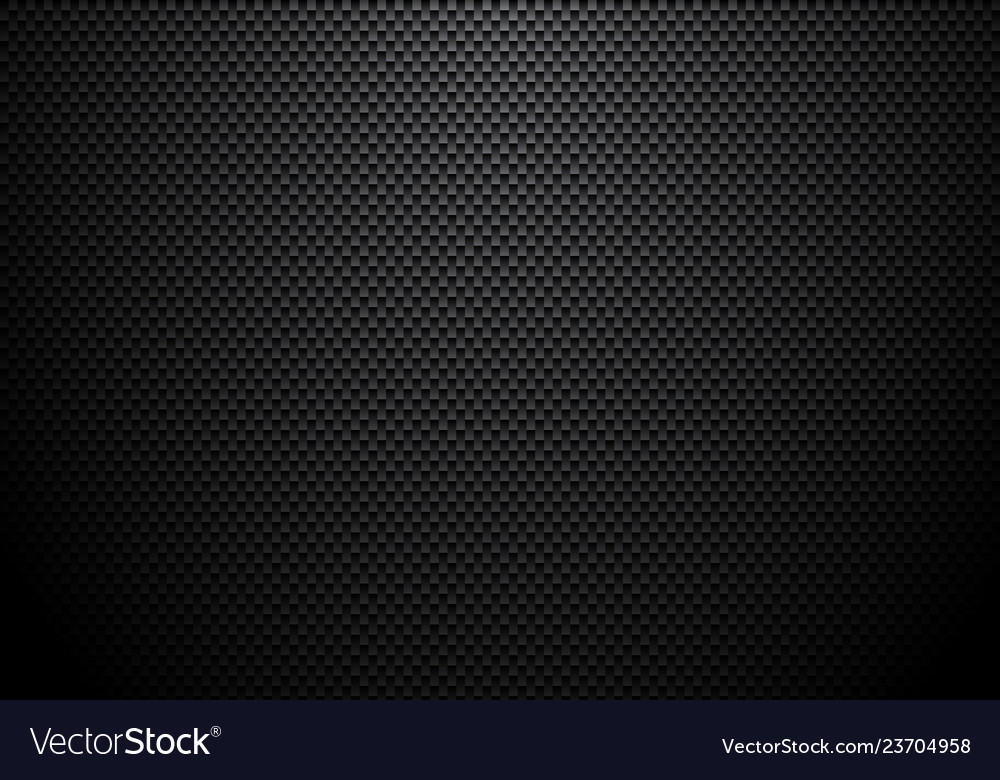
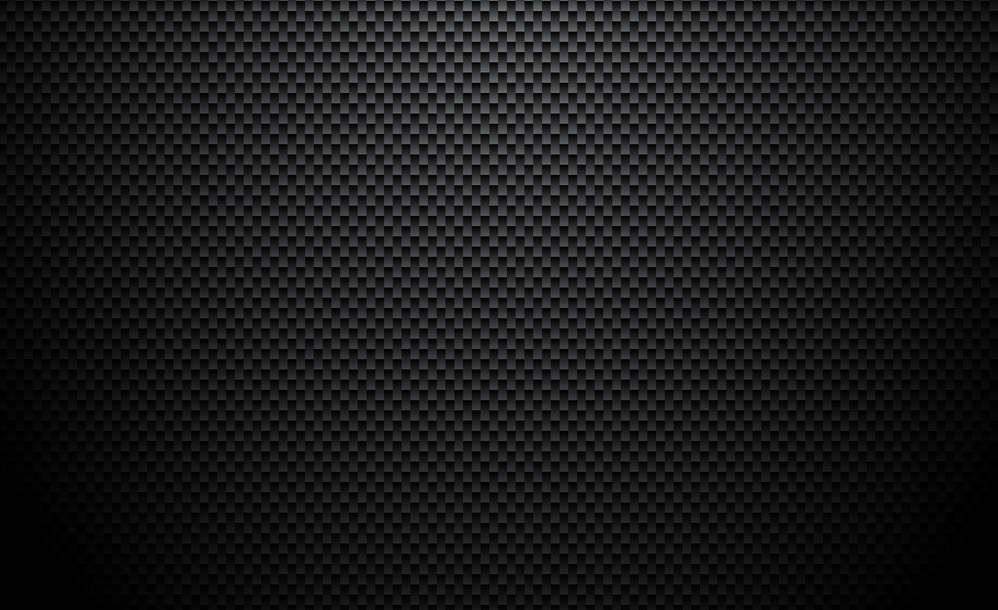
optimised for laptop screen + background image add

Changed region(s): [[0.0621, 0.0, 0.9629, 0.8098], [0.0, 0.841, 1.0, 1.0]]

diff --git a/bikes.css b/bikes.css
@@ -8,7 +8,6 @@
     src: url(styles/fonts/LAKESHOR-webfont.svg);
     src: url(styles/fonts/LAKESHOR-webfont.woff);
 }
-
 html{
     height: 100%;
 }
@@ -18,6 +17,10 @@ body{
     display: flex;
     flex-direction: column;
     margin: 0;
+    background-image: url(images/bike_Images/carbon.jpg);
+    background-repeat: no-repeat;
+    background-size: cover;
+
 }
 .logo{
     display: block;
@@ -68,7 +71,6 @@ h2{
     margin-top: 2vh;
     border-radius: 10%;
     overflow-y: hidden;
-    
 }
 .thumbnails-anchor{
     text-decoration: none;
@@ -76,7 +78,6 @@ h2{
 .thumbnails-image{
     width: 25vw;
     height: 15vw;
-    
 }
 .thumbnails-title{
     display: block;
@@ -118,7 +119,6 @@ a{
         height: 35vw;
         border-radius: 5%;
     }
-
 }
 @media(min-width:1000px){
     .thumbnails-list{
@@ -129,23 +129,24 @@ a{
         justify-content: space-evenly;
     }
     .thumbnails-item{
-        height: 10vh;
+        min-height: 15vw;
         display: flex;
         flex-direction: column;
         justify-content: center;
     }
     .thumbnails-title{
-        font-size: 1.5em;
+        font-size: 1.8em;
+        height: 3vw;
         display:flex;
         flex-direction:column;
     }
     .thumbnails-image{
         width: 18vw;
-        height: 14vw;
+        height: 12vw;
     }
     .details-image{
         width: 55vw;
-        height: 30vw;
+        height: 35vw;
         border-radius: 5%;
     }
 
